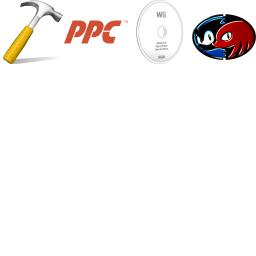
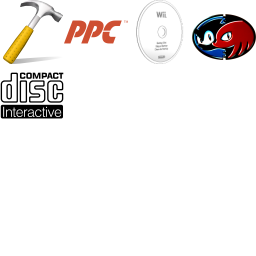
New achievement: Viewed a CD-i disc image.
Added this because the last Project Deluge release included a few CD-i
prototypes.

Changed region(s): [[0.0, 0.2812, 0.25, 0.4688]]

diff --git a/src/libromdata/Other/ISO.cpp b/src/libromdata/Other/ISO.cpp
@@ -15,6 +15,7 @@
 #include "hsfs_structs.h"
 
 // librpbase, librpfile, librpcpu
+#include "librpbase/Achievements.hpp"
 #include "librpbase/TextFuncs.hpp"
 #include "libi18n/i18n.h"
 using namespace LibRpBase;
@@ -781,6 +782,31 @@ const char *const *ISO::supportedMimeTypes_static(void)
 		nullptr
 	};
 	return mimeTypes;
+}
+
+/**
+ * Check for "viewed" achievements.
+ *
+ * @return Number of achievements unlocked.
+ */
+int ISO::checkViewedAchievements(void) const
+{
+	RP_D(const ISO);
+	if (!d->isValid) {
+		// Disc image is not valid.
+		return 0;
+	}
+
+	Achievements *const pAch = Achievements::instance();
+	int ret = 0;
+
+	// Check for a CD-i disc image.
+	if (d->discType == ISOPrivate::DiscType::CDi) {
+		pAch->unlock(Achievements::ID::ViewedCDiDiscImage);
+		ret++;
+	}
+
+	return ret;
 }
 
 /**

diff --git a/src/librpbase/Achievements.hpp b/src/librpbase/Achievements.hpp
@@ -52,18 +52,21 @@ class Achievements
 		 * Achievement identifiers.
 		 */
 		enum class ID {
-			// Debug-encrypted file. (devkits)
+			// Debug-encrypted file (devkits)
 			ViewedDebugCryptedFile		= 0,
 
-			// Non-x86/x64 PE executable.
-			// Does not include Xbox 360 executables.
+			// Non-x86/x64 PE executable
+			// Does not include Xbox 360 executables
 			ViewedNonX86PE			= 1,
 
-			// BroadOn WAD file format for Wii.
+			// BroadOn WAD file format for Wii
 			ViewedBroadOnWADFile		= 2,
 
 			// Sonic & Knuckles locked on to Sonic & Knuckles
 			ViewedMegaDriveSKwithSK		= 3,
+
+			// CD-i disc image
+			ViewedCDiDiscImage		= 4,
 
 			Max
 		};

diff --git a/src/librpbase/Achievements.cpp b/src/librpbase/Achievements.cpp
@@ -230,6 +230,11 @@ const struct AchievementsPrivate::AchInfo_t AchievementsPrivate::achInfo[] =
 		NOP_C_("Achievements", "Viewed a copy of Sonic & Knuckles locked on to Sonic & Knuckles."),
 		AT_COUNT, 1
 	},
+	{
+		NOP_C_("Achievements", "Link, mah boi..."),
+		NOP_C_("Achievements", "Viewed a CD-i disc image."),
+		AT_COUNT, 1
+	},
 };
 
 // Singleton instance.

diff --git a/src/libromdata/Other/ISO.hpp b/src/libromdata/Other/ISO.hpp
@@ -39,6 +39,7 @@ ROMDATA_DECL_BEGIN(ISO)
 		static void addMetaData_PVD(LibRpBase::RomMetaData *metaData, const struct _ISO_Primary_Volume_Descriptor *pvd);
 
 ROMDATA_DECL_METADATA()
+ROMDATA_DECL_VIEWED_ACHIEVEMENTS()
 ROMDATA_DECL_END()
 
 }
